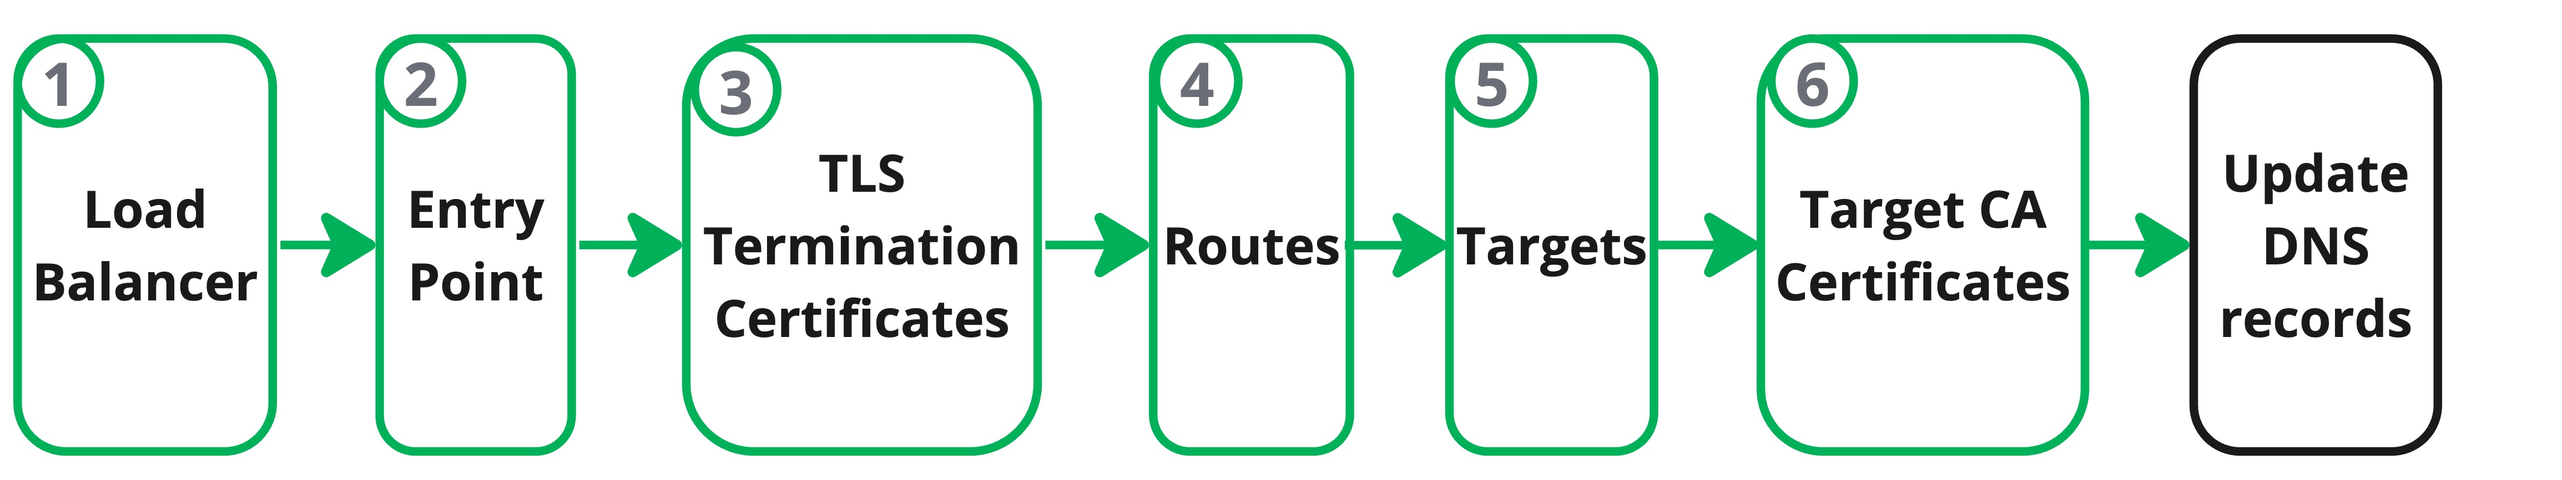
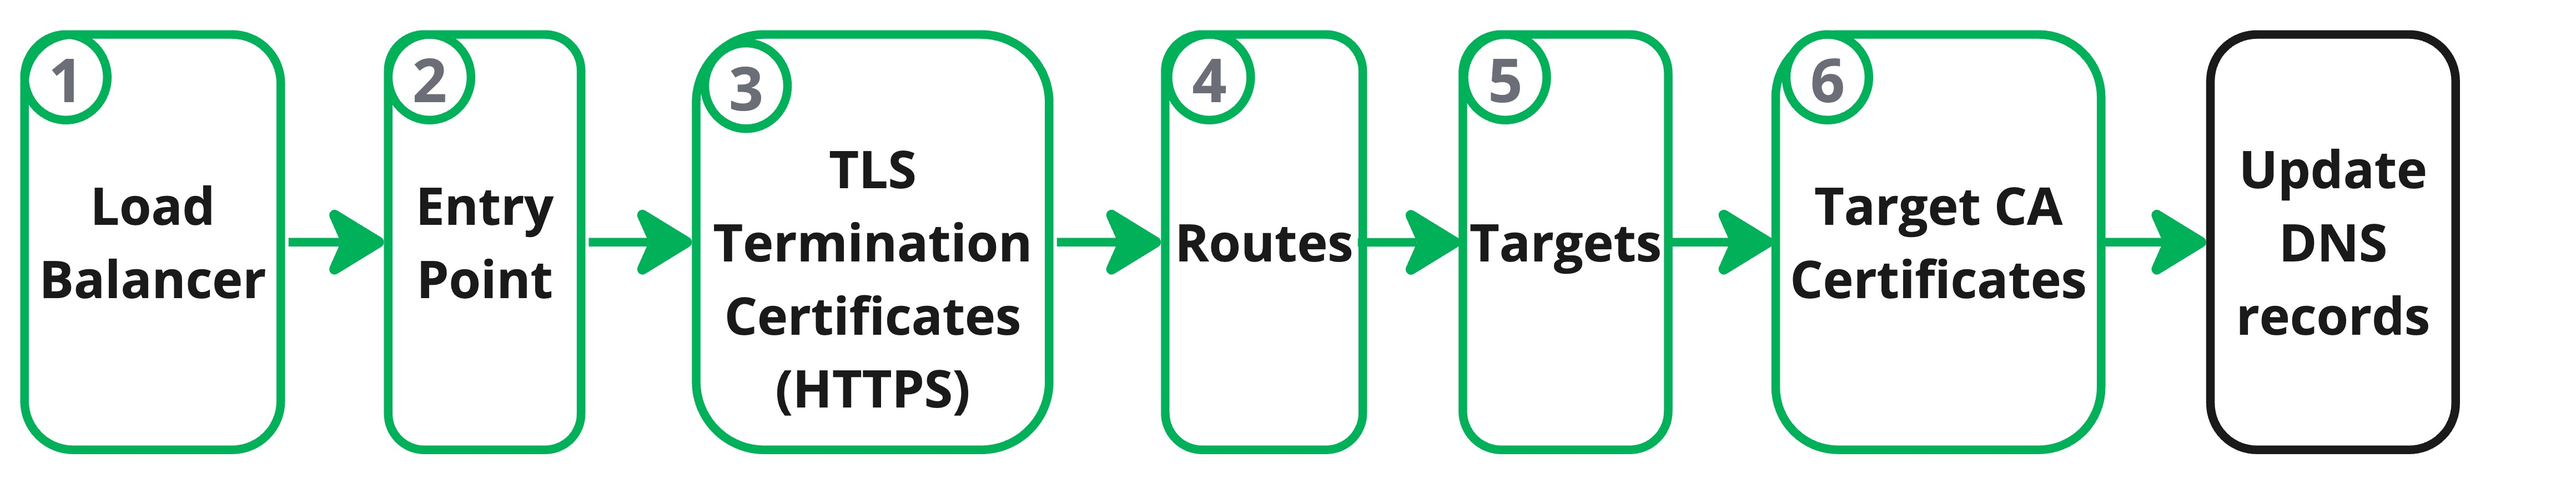
Updates upto Sep5

diff --git a/docs/products/networking/global-loadbalancer/_index.md b/docs/products/networking/global-loadbalancer/_index.md
@@ -13,17 +13,17 @@ modified: 2023-06-26
 aliases: ['/platform/global-loadbalancer/','/loadbalancers/','/guides/platform/global-loadbalancer/']
 ---
 
-**Akamai Global Load Balancer**  offers global, configurable, scalable, distributed compute traffic management across physical, virtual, and cloud-hosted applications. It can automatically detect load conditions and route traffic to the optimal target while maintaining custom routing policies and consistent visitor session behavior.
+**Akamai Global Load Balancer**  offers global, configurable, scalable, distributed compute traffic management across physical, virtual, and cloud-hosted applications. It can automatically detect load conditions and levels and route traffic to the optimal target while maintaining custom routing policies and consistent visitor session behavior.
 
 ## Global Load Balancer Workflow
 
 Here's how Global Load Balancer works:
 
-1. Create Compute Instances (targets) and add them to the Global Load Balancer configuration.
+1. Create Compute Instances (targets) that will be added to the Global Load Balancer configuration.
+
+1. Configure the load balancer, add the service targets,  and create the load balancing routing policy to distribute traffic across targets.
 
 1. Create a CNAME record in your DNS that maps the Compute Instance targets to the load balancer.
-
-1. Configure the load balancing policy to distribute traffic across targets.
 
 Health checks detect if a target is down and routes traffic to an available target or a failover target. Session stickiness routes subsequent requests to the same target as long as it remains healthy.
 
@@ -34,7 +34,8 @@ Health checks detect if a target is down and routes traffic to an available targ
 | Feature               | Global Load Balancer         | NodeBalancer           |
 | ----------------------| -----------------------------|------------------------|
 |Load Balancer Location |Supports both regional and global load balancing. The load balancer does not need to be situated in the same data center as your target endpoints.                  |Must be situated in the same data center as your target endpoints IPs.|
-|Hosting environments for target services and applications| Multi-cloud, can be used with or with Akamai Delivery Properties or Cloud Compute Instances. |Cloud Compute Instance|
+|Hosting environments for target services and applications| Any combination of targets from different Cloud providers, Akamai Delivery Properties and Cloud Compute Instances can be added to Global Load Balancer. |Cloud Compute Instance|
+|PCI  Compliance |Compliant for LA/GA|Compliant|
 |Layer 7 (Application Layer) |Supported            |Partially Supported     |
 |Layer 4 (Network Layer/Transport)|Supported                |Supported               |
 |Load Balancing Methods |Performance, Weighted, Content-based|Performance, Weighted|
@@ -55,24 +56,21 @@ The Global Load Balancer can be used with or without an Akamai delivery property
 ## Operationally Simple
 You can create and enable the Global Load Balancer using Cloud Manager or APIs. Once Global Load Balancer is configured, you can start balancing traffic across multiple regions or globally. Akamai Global Load Balancer requires no infrastructure management and is designed to be maintenance free after initial configuration.
 
-## Available Protocols
-
-
 ## Load Balancing Configurations
 You can select to route your clients traffic to one of your backends using one or a combination of the following load balancing methods; performance, weighted and content-based.
 
-- **Performance:** determines which route to use based on real-time load feedback and the shortest geographic route to the backend target. Default method.
+- **Performance:** determines which route to use based on real-time load feedback and the shortest geographic route to the backend target. Default method. (NA for BETA)
 
 - **Weighted:** routes requests in the proportion (%) configured.
 
 - **Content-based:** routes traffic to a backend based on matches with:
     - Query string
     - Path
-    - Host
+    - Host (NA for BETA)
     - HTTP Header
     - HTTP method
-    - HTTP body
-    - Custom
+    - HTTP body (NA for BETA)
+    - Custom (NA for BETA)
 
 - **Sticky Sessions:** routes subsequent requests to the same backend with failover to an alternate target if the sticky region fails or degrades.
 
@@ -82,10 +80,10 @@ You can select to route your clients traffic to one of your backends using one o
 
 **Performance:** Based on load and distance, Akamai Cloud identifies and selects the fastest routing for best performance. The Layer 7 Akamai Global Load Balancer offloads connections closer to the end user so that round-trip time and time to first byte is improved when compared to not using the load balancer.
 
-**Scalability:** Load balancers scale applications and add flexibility by allowing you to add or remove machines that are identically configured to serve your application or perform a task. The load balancer routes your traffic to one of the identically configured machines based on the settings that you have configured. Each Global Load Balancer can support up to 1,000,000 concurrent connections.
+**Scalability:** Load balancers scale applications and add flexibility by allowing you to add or remove machines that are identically configured to serve your application or perform a task. The load balancer routes your traffic to one of the identically configured machines based on the settings that you have configured. Large tier Global Load Balancers can support up to 1,000,000 concurrent connections.
 
 ## Health Checks
-Traffic is only routed to healthy backends. Passive health checks happen on every request. You can configure active health checks based on your application or service. If the target becomes unfit, the load balancer moves traffic away from the unhealthy target. When a new target is added, Akamai Global Load Balancer tests the fitness of the target to verify the target is active, and ready to support large traffic spikes.
+Traffic is only routed to healthy targets. Passive health checks happen on every request. You can configure active health checks based on your application or service. If the target becomes unfit, the load balancer moves traffic away from the unhealthy target. When a new target is added, Akamai Global Load Balancer tests the fitness of the target to verify the target is active, and ready to support large traffic spikes.
 
 ## Certificate Management
 Global Load Balancer uses a bring-you-own certificate model. Your certificate and it's private key are directly uploaded to a vault using Cloud Manager or APIv4.
@@ -114,6 +112,7 @@ Akamai Global Load Balancer provides real-time metrics, logs and traces through 
 - Applications that require extreme reliability and uptime
 - Applications that need to dynamically scale without any downtime
 - A/B testing and blue/green deployments
+- PCI compliant load balancing (NA for BETA)
 
 ## Availability
 
@@ -126,8 +125,8 @@ Pricing is based on outbound traffic monthly usage and a base fee. Outbound traf
 
     | Base Fee Tier   | # of Connections| Price/Month   |
     | ----------------| ----------------|---------------|
-    | Small           | upto 25 000     |    $25 tbd    |
-    | Medium          | upto 100 000    |    $50 tbd    |
+    | Small           | upto 25 000     |    $50 tbd    |
+    | Medium          | upto 100 000    |    $125 tbd   |
     | Large           | upto 1 000 000  |    $200 tbd   |
 
 **Beta Pricing:** Beta is offered free of charge for the duration of the Beta trial and includes:
@@ -148,10 +147,13 @@ GB+ processed traffic is denied if either of these limits are exceeded during th
 - Managed cloud-based load balancing service
 - Dynamically routes traffic over any ports to configurable backend Compute Instances
 - Highly available with built-in redundancy
-- Up to 1,000,000 concurrent connections
+- Up to 1,000,000 concurrent connections for large tiers.
 - Supports TCP-based (layer 4) load balancing (UDP traffic is not supported)
 - Supports HTTP and HTTPS (layer 7) load balancing through the HTTP/1.1 and HTTP/2 protocols.
 - Equipped with both public IPv4 and IPv6 addresses
+- Configurable to targets within a VPC.
+- Configurable to targets in a dedicated subnet and VLAN.
+- Private connections can be configured between the Global Load Balancer and targets.
 - Fully customizable health checks to ensure traffic lands on a functioning backend
 - Free inbound network transfer
 - Outbound network transfer usage is counted towards the account-wide [monthly network transfer pool](/docs/products/platform/get-started/guides/network-transfer/)

diff --git a/docs/products/networking/global-loadbalancer/get-started/index.md b/docs/products/networking/global-loadbalancer/get-started/index.md
@@ -29,17 +29,19 @@ To redirect all web connections over port 443/HTTPS generate an TLS certificate 
 
 Once your application has been deployed on multiple Compute Instances, you are ready to create the Akamai Global Load Balancer which includes configuring the following components.
 
-![This diagram shows the components that a configured when creating a Global Load Balancer.](glb-2.jpg)
+![This diagram shows the main components that are configured when creating a Global Load Balancer.](glb-2.jpg)
 
 1. **Load Balancer:** Label the load balancer and select regions.
 
 1. **Entry Point:** Select the entry point protocol (TCP or HTTP) and port the load balancer uses to listen on.
 
-1. **Certificates:** Upload your certificate and private key.
+1. **TLS Termination Certificates:** Upload your certificate and private key.
 
 1. **Routes:** Create routes and route rules used to select the service target.
 
 1. **Targets:** Configure the service endpoints (targets) and their policy type and health checks.
+
+1. **CA Certificates:**
 
 {{< tabs >}}
 {{< tab "Cloud Manager" >}}
@@ -66,29 +68,51 @@ An Entry Point defines the port the load balancer listens on and the protocol fo
         - **HTTPS:** Encrypted web traffic using HTTP/1.1 or HTTP/2. Since this terminates the request on the Global Load Balancer, it also terminates the TLS/SSL connection to decrypt the traffic. Use this if you wish to configure TLS/SSL certificates on the Global Load Balancer and not on individual backend nodes.
                 When using the **HTTPS** protocol setting, all traffic is decrypted on the Global Load Balancer. Traffic between the Global Load Balancer and the backend nodes is sent over the private data center network, is not encrypted, and uses the HTTP protocol.
 
-    - **Port:** This is the *inbound* port that the Global Load Balancer is listening on. This can be any port from 1 through 65534, though it should be set to whichever port the client software connects to. For instance, web browsers use port 80 for HTTP traffic and port 443 for HTTPS traffic, though a client can change the port by specifying it as part of the URL.
+    - **Port:** This is the *inbound* port that the Global Load Balancer is listening on. For TCP, this can be any port from 1 through 1023, though it should be set to whichever port the client software connects to. For instance, web browsers use port 80 for HTTP traffic and port 443 for HTTPS traffic, though a client can change the port by specifying it as part of the URL.
 
 
-1. When the HTTPS protocol is selected, click **Authorization**, you need to install an SSL certificate on your Global Load Balancer to redirect all web connections over port 443/HTTPS using SSL.
+1. When the HTTPS protocol is selected, you need to install an TLS certificate on your Global Load Balancer to redirect all web connections over port 443/HTTPS using TLS.
 
-    - **SSL Certificate:** Paste the PEM-formatted contents of your SSL certificate. If you have linked multiple segments of a chained certificate, be sure to copy all of its contents into the text field, appearing one after another. The certificate must be signed using the RSA algorithm, which is the default in most cases.
+    - **Certificate Name:** 
+
+    - **TLS Certificate:** Paste the PEM-formatted contents of your TLS certificate. If you have linked multiple segments of a chained certificate, be sure to copy all of its contents into the text field, appearing one after another. The certificate must be signed using the RSA algorithm, which is the default in most cases.
 
     - **Private Key:** Paste the PEM-formatted contents of your private key. Your private key must not have a passphrase.
 
-    - **SNI Hostnames:**
+    - **SNI Hostname:**
 
-###  Configure Routes
- Routes provide the set of traffic routing rules that the load balancer uses to select the target for the incoming request.
+### Configure Routes
+Routes define how the load balancer directs incoming requests to service targets. You can configure the  service target and the percentage of incoming requests that should be  directed to that target. For HTTP and HTTPS protocol load balancers, additional match conditions can be added to the route.
+
+Follow the steps to configure routes for the type of load balancer; 
+- [Routes for TCP Load Balancers](/docs/products/networking/global-loadbalancer/get-started/?tabs=cloud-manager#routes-for-tcp-load-balancers)
+- [Routes for HTTP and HTTPs Load Balancers](/docs/products/networking/global-loadbalancer/get-started/?tabs=cloud-manager#routes-for-http-and-https-load-balancers)
+
+#### Routes for TCP Load Balancers
+For TCP load balancers, a route consists of a service target and the percentage of incoming requests that should be  directed to that target. Add as many routes/service targets as you require but the percentages for all routes must total 100. You can create a new route or select existing routes.
+
+1. Select an exisiting route from the list and continue with Configuring Session Stickness. For a new route, click the **Add Route** button.
+
+1. Enter a **Route Name** for this route that uniquely identifies it from other routes. The **Route Name** can contain between 3? and 32? alphanumeric characters.
+
+1. Select a **Service Target** from the pull list.
+
+1. Enter the percentage of traffic that you want routed to this service target in the **Percent** field.
+
+1. Add or select additonal routes.
+
+#### Routes for HTTP and HTTPs Load Balancers
+ Routes provide the set of traffic routing rules that the load balancer uses to select the target for the incoming request. Routes are configurable for load balancers using HTTP or HTTPS protocols.
 
 1. Enter a **Route Name** for this route that uniquely identifies it from other Routes. The **Route Name** can contain between 3? and 32? alphanumeric characters.
 
 1. Add an optional **Default target** to use if no rule matches. Without a default target, non-matching requests are rejected.
 
-### Add Match Rules for Each Route
+**Add Match Conditions for Each Route**
 
-A match rule consists of a **Match Type**, and a pattern to match. Rules are evaluated in order, with the first match winning. Each rule can specify only one field/pattern pair (AND/OR logic is not supported).
+A match condition consists of a **Match Field**, and a **Match Value** pattern to match. Rules are evaluated in order, with the first match winning. Each rule can specify only one field/pattern pair (AND/OR logic is not supported).
 
-| Match Type     | Description |Examples       |Operators|Wildcards|Case Sensitivity|
+| Match Field     | Description |Match Value Examples       |Operators|Wildcards|Case Sensitivity|
 |----------------|-------------|--------------|---------|---------|----------------|
 |**Path Prefix**  | A URL path prefix. The format of the path entry is as follows: /pathprefix1/pathprefix2. The initial slash is required, the trailing slash is not.| /images |is one of |?|?|
 |**Query**        | Exact match based on both the name of the query and the single URL query value to match on. If there is no value, the match is to any request that contains the parameter.|?svc=images| ? | ? | ?|
@@ -103,7 +127,9 @@ A match rule consists of a **Match Type**, and a pattern to match. Rules are eva
 
 1. If this rule applies to a specific target, enter the **Hostname** of the target or select the target. If a hostname or target is not specified, the rule applies to all targets. Wildcards (*) are supported.
 
-1. Enable **Session Stickiness** if you want to route subsequent requests from the same client to the same backend target when possible. For testing, consider keeping Session Stickiness off.
+### Configure Session Stickiness
+
+1. Enable **Session Stickiness** if you want to route subsequent requests from the same client to the same service target when possible. For testing, consider keeping Session Stickiness off.
 
     **None:** When **Session Stickiness** is disabled, no session information is saved and requests are routed in accordance with the algorithm only.
 
